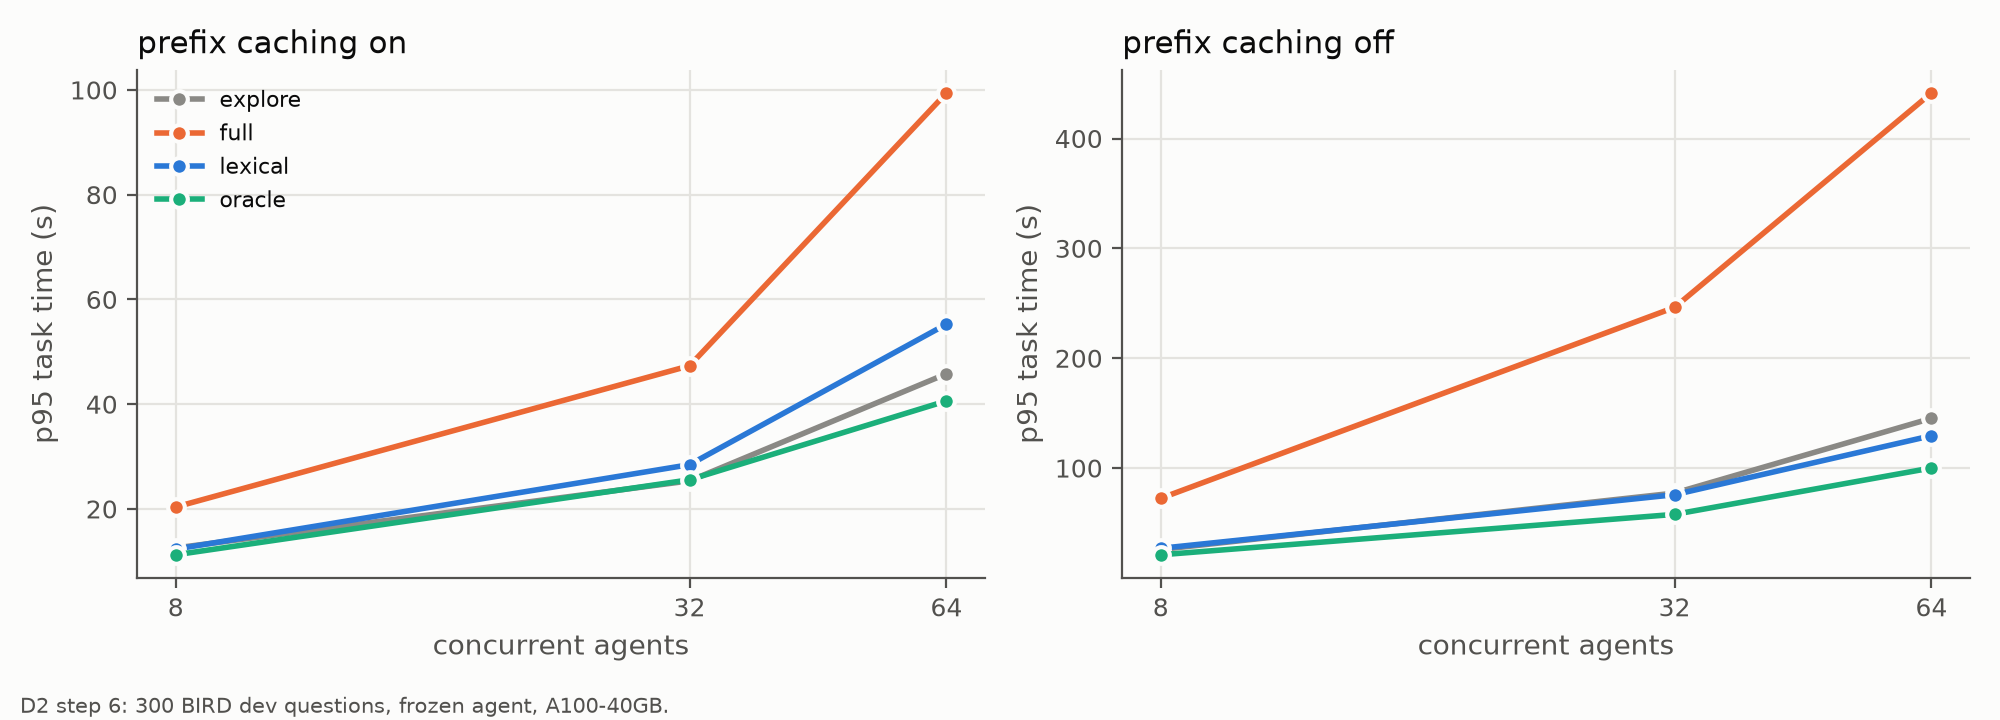
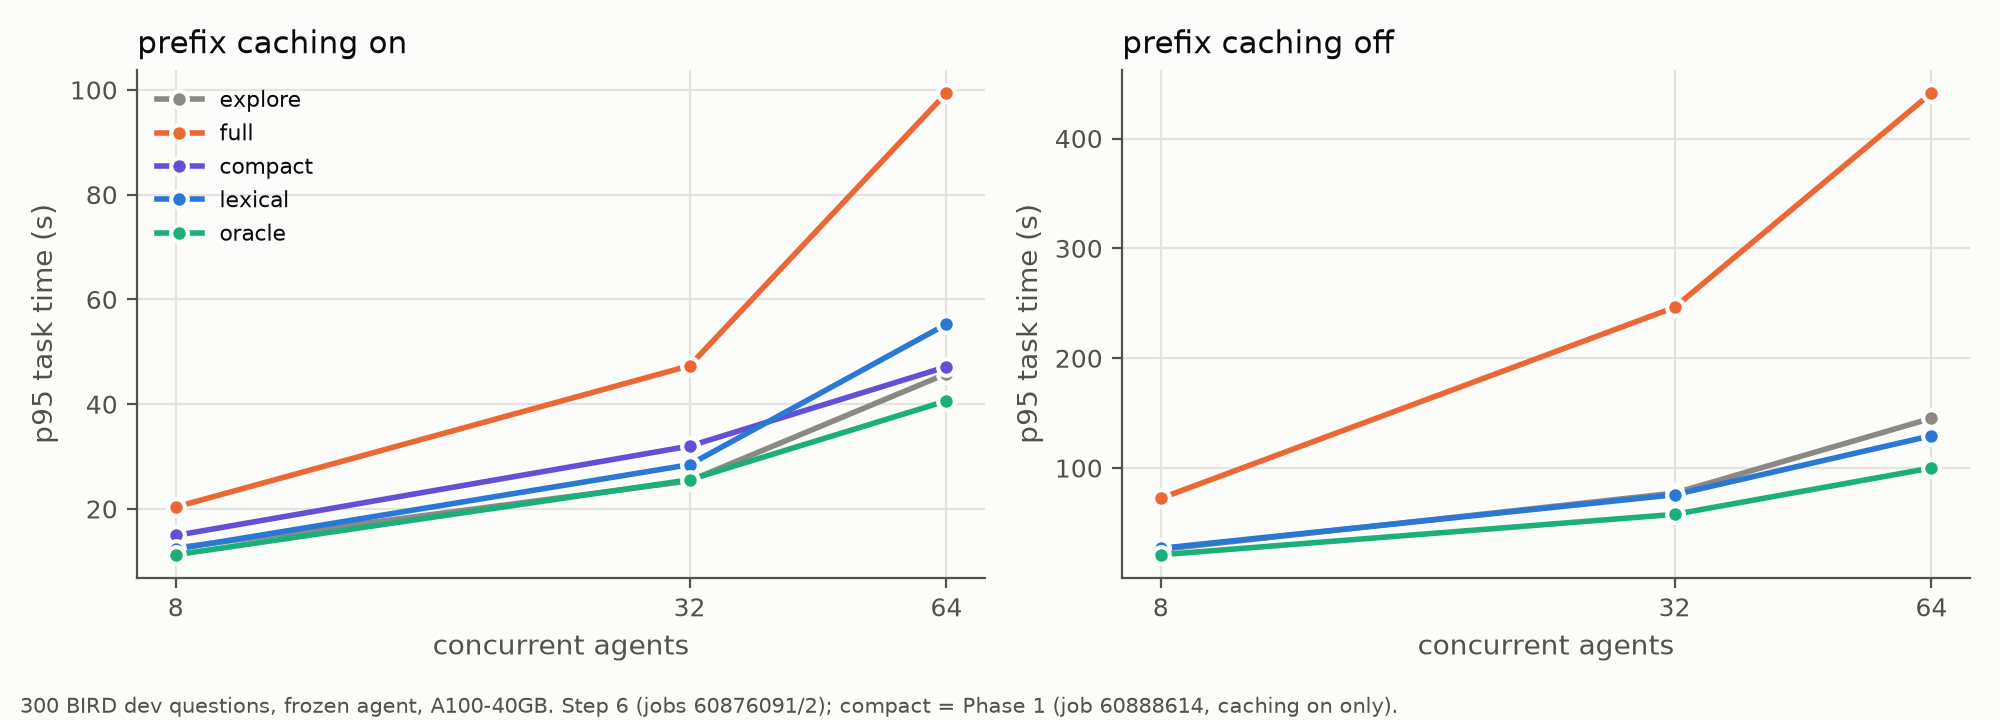
Midpoint figures: brief accuracy vs tokens, priority test, load sweep incl. compact

diff --git a/results/figures.py b/results/figures.py
@@ -243,13 +243,14 @@ def d2_sweep(on_dir, off_dir):
     import glob as _g
     if not (_g.glob(os.path.join(on_dir, "*_c*", "tasks.jsonl")) or _g.glob(os.path.join(off_dir, "*_c*", "tasks.jsonl"))):
         print("no sweep data yet"); return
-    arms = [("explore", "#8a8985"), ("full", "#eb6834"), ("lexical", "#2a78d6"), ("oracle", "#1baf7a")]
+    arms = [("explore", "#8a8985"), ("full", "#eb6834"), ("compact", "#6250d6"), ("lexical", "#2a78d6"), ("oracle", "#1baf7a")]
     f, axes = fig(2, w=5.0, h=3.6)
     for ax, (pc, d) in zip(axes, (("on", on_dir), ("off", off_dir))):
         for arm, c in arms:
             xs, ys = [], []
             for conc in (8, 32, 64):
-                t = os.path.join(d, f"{arm}_c{conc}", "tasks.jsonl")
+                dd = f"{SCR}/dbkv/runs/d2sweep/60888614" if (arm == "compact" and pc == "on") else d
+                t = os.path.join(dd, f"{arm}_c{conc}", "tasks.jsonl")
                 if os.path.exists(t):
                     ts = [json.loads(l)["task_s"] for l in open(t)]
                     xs.append(conc); ys.append(np.percentile(ts, 95))
@@ -259,8 +260,36 @@ def d2_sweep(on_dir, off_dir):
         ax.set_xlabel("concurrent agents"); ax.set_ylabel("p95 task time (s)")
         style(ax, f"prefix caching {pc}")
     axes[0].legend(frameon=False, fontsize=8, labelcolor=INK)
-    save(f, "fig_d2_sweep.png", "D2 step 6: 300 BIRD dev questions, frozen agent, A100-40GB.")
+    save(f, "fig_d2_sweep.png", "300 BIRD dev questions, frozen agent, A100-40GB. Step 6 (jobs 60876091/2); compact = Phase 1 (job 60888614, caching on only).")
 
+
+
+def d2_acc_vs_tokens():
+    f, (ax,) = fig(w=6.0, h=4.0)
+    cols = {"explore": "#8a8985", "full": "#eb6834", "compact": "#2a78d6", "lexical": "#2a78d6", "llm": "#2a78d6", "oracle": "#1baf7a"}
+    for arm, lab in D2_ARMS:
+        T, _U = _d2_load(arm)
+        acc = 100 * np.mean([t["correct"] for t in T]); se = 100 * np.sqrt(acc / 100 * (1 - acc / 100) / len(T))
+        tok = np.mean([t["prompt_tokens"] for t in T]) / 1000
+        ax.errorbar([tok], [acc], yerr=[se], fmt="o", color=cols[arm], ms=8, mec=SURFACE, mew=1.5, ecolor=INK2, capsize=3)
+        ax.annotate(lab, (tok, acc), xytext=(6, 4), textcoords="offset points", fontsize=8, color=INK)
+    ax.set_xlabel("prompt tokens per task (thousands)"); ax.set_ylabel("accuracy (%)")
+    style(ax, "Schema briefs: accuracy vs prompt cost")
+    save(f, "fig_d2_acc_vs_tokens.png", "D2 step 5: frozen agent, all 1,534 BIRD dev questions, concurrency 8. Accuracy ± SE.")
+
+
+def priority_test():
+    rows = [("8k × 24", 139.9, 134.7), ("8k × 32", 188.3, 182.7), ("20k × 10", 170.4, 132.7), ("20k × 12", 198.8, 152.9)]
+    f, (ax,) = fig(w=6.0, h=3.6)
+    x = np.arange(len(rows)); w = 0.36
+    ax.bar(x - w / 2 - 0.01, [r[1] for r in rows], w, color="#8a8985", label="stock vLLM (FCFS)", edgecolor=SURFACE)
+    ax.bar(x + w / 2 + 0.01, [r[2] for r in rows], w, color="#2a78d6", label="task-start priority", edgecolor=SURFACE)
+    for i, r in enumerate(rows):
+        ax.text(i + w / 2, r[2] + 3, f"{100 * (r[2] / r[1] - 1):+.0f}%", ha="center", fontsize=8, color=INK)
+    ax.set_xticks(x); ax.set_xticklabels([r[0] for r in rows]); ax.set_ylabel("p95 task time (s)")
+    style(ax, "Ordering by task start cuts p95 above the memory limit")
+    ax.legend(frameon=False, fontsize=8, labelcolor=INK)
+    save(f, "fig_priority_test.png", "Synthetic replayer, real vLLM 0.33 on one A100-40GB, 1 rep (job 60827432). Context × agents, all above the KV limit.")
 
 if __name__ == "__main__":
     ap = argparse.ArgumentParser()
@@ -277,3 +306,5 @@ if __name__ == "__main__":
     d2_breakdown()
     d2_arms()
     d2_sweep(a.sweep_on, a.sweep_off)
+    d2_acc_vs_tokens()
+    priority_test()
